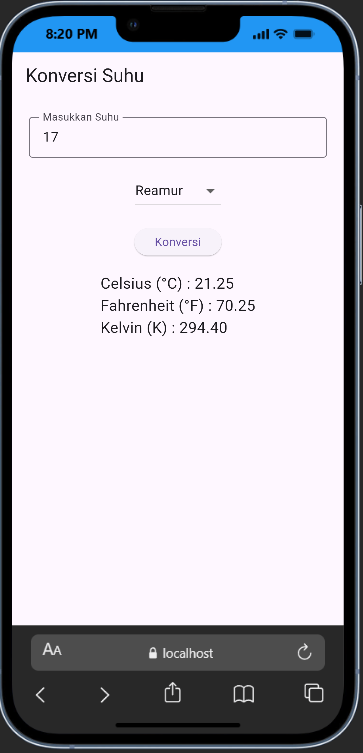
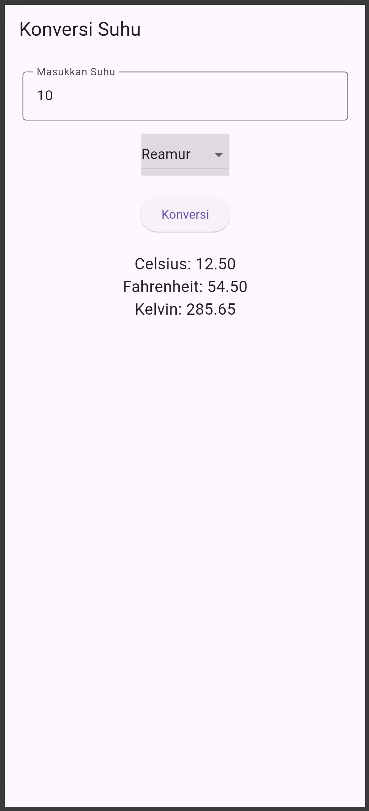
Konversi Bloc

diff --git a/lib/main.dart b/lib/main.dart
@@ -1,70 +1,22 @@
 import 'package:flutter/material.dart';
+import 'package:flutter_bloc/flutter_bloc.dart';
+import 'bloc/suhu/suhu_bloc.dart';
+import 'bloc/suhu/suhu_event.dart';
+import 'bloc/suhu/suhu_state.dart';
 
 void main() {
-  runApp(MyApp());
+  runApp(BlocProvider(create: (_) => SuhuBloc(), child: MyApp()));
 }
 
 class MyApp extends StatelessWidget {
   @override
   Widget build(BuildContext context) {
-    return MaterialApp(home: KonversiSuhu(), debugShowCheckedModeBanner: false);
+    return MaterialApp(debugShowCheckedModeBanner: false, home: KonversiSuhu());
   }
 }
 
-class KonversiSuhu extends StatefulWidget {
-  @override
-  _KonversiSuhuState createState() => _KonversiSuhuState();
-}
-
-class _KonversiSuhuState extends State<KonversiSuhu> {
-  TextEditingController suhuController = TextEditingController();
-
-  String satuanInput = "Celsius";
-  String hasil = "";
-
-  void konversi() {
-    double suhu = double.parse(suhuController.text);
-
-    double c, f, r, k;
-
-    if (satuanInput == "Celsius") {
-      c = suhu;
-      f = (c * 9 / 5) + 32;
-      r = c * 4 / 5;
-      k = c + 273.15;
-    } else if (satuanInput == "Fahrenheit") {
-      c = (suhu - 32) * 5 / 9;
-      f = suhu;
-      r = c * 4 / 5;
-      k = c + 273.15;
-    } else if (satuanInput == "Reamur") {
-      c = suhu * 5 / 4;
-      f = (c * 9 / 5) + 32;
-      r = suhu;
-      k = c + 273.15;
-    } else {
-      c = suhu - 273.15;
-      f = (c * 9 / 5) + 32;
-      r = c * 4 / 5;
-      k = suhu;
-    }
-
-    setState(() {
-      if (satuanInput == "Celsius") {
-        hasil =
-            "Fahrenheit (°F) : ${f.toStringAsFixed(2)}\nReamur (°R) : ${r.toStringAsFixed(2)}\nKelvin (K) : ${k.toStringAsFixed(2)}";
-      } else if (satuanInput == "Fahrenheit") {
-        hasil =
-            "Celsius (°C) : ${c.toStringAsFixed(2)}\nReamur (°R) : ${r.toStringAsFixed(2)}\nKelvin (K) : ${k.toStringAsFixed(2)}";
-      } else if (satuanInput == "Reamur") {
-        hasil =
-            "Celsius (°C) : ${c.toStringAsFixed(2)}\nFahrenheit (°F) : ${f.toStringAsFixed(2)}\nKelvin (K) : ${k.toStringAsFixed(2)}";
-      } else {
-        hasil =
-            "Celsius (°C) : ${c.toStringAsFixed(2)}\nFahrenheit (°F) : ${f.toStringAsFixed(2)}\nReamur (°R) : ${r.toStringAsFixed(2)}";
-      }
-    });
-  }
+class KonversiSuhu extends StatelessWidget {
+  final TextEditingController suhuController = TextEditingController();
 
   @override
   Widget build(BuildContext context) {
@@ -84,28 +36,42 @@ class _KonversiSuhuState extends State<KonversiSuhu> {
             ),
             SizedBox(height: 15),
 
-            DropdownButton<String>(
-              value: satuanInput,
-              items: ["Celsius", "Fahrenheit", "Reamur", "Kelvin"]
-                  .map(
-                    (String value) =>
-                        DropdownMenuItem(value: value, child: Text(value)),
-                  )
-                  .toList(),
-              onChanged: (value) {
-                setState(() {
-                  satuanInput = value!;
-                });
+            BlocBuilder<SuhuBloc, SuhuState>(
+              builder: (context, state) {
+                return DropdownButton<String>(
+                  value: state.satuan,
+                  items: ["Celsius", "Fahrenheit", "Reamur", "Kelvin"]
+                      .map((e) => DropdownMenuItem(value: e, child: Text(e)))
+                      .toList(),
+                  onChanged: (value) {
+                    context.read<SuhuBloc>().add(SetSatuanEvent(value!));
+                  },
+                );
               },
             ),
 
             SizedBox(height: 20),
 
-            ElevatedButton(onPressed: konversi, child: Text("Konversi")),
+            ElevatedButton(
+              onPressed: () {
+                context.read<SuhuBloc>().add(
+                  KonversiEvent(suhuController.text),
+                );
+              },
+              child: Text("Konversi"),
+            ),
 
             SizedBox(height: 20),
 
-            Text(hasil, style: TextStyle(fontSize: 18)),
+            BlocBuilder<SuhuBloc, SuhuState>(
+              builder: (context, state) {
+                return Text(
+                  state.hasil,
+                  style: TextStyle(fontSize: 18),
+                  textAlign: TextAlign.center,
+                );
+              },
+            ),
           ],
         ),
       ),

diff --git a/lib/bloc/suhu/suhu_bloc.dart b/lib/bloc/suhu/suhu_bloc.dart
@@ -1,0 +1,55 @@
+import 'package:flutter_bloc/flutter_bloc.dart';
+import 'suhu_event.dart';
+import 'suhu_state.dart';
+
+class SuhuBloc extends Bloc<SuhuEvent, SuhuState> {
+  SuhuBloc() : super(SuhuState()) {
+    on<SetSatuanEvent>((event, emit) {
+      emit(state.copyWith(satuan: event.satuan));
+    });
+
+    on<KonversiEvent>((event, emit) {
+      double? suhu = double.tryParse(event.input);
+
+      if (suhu == null) {
+        emit(state.copyWith(hasil: "Input tidak valid"));
+        return;
+      }
+
+      double c, f, r, k;
+      String hasil;
+
+      if (state.satuan == "Celsius") {
+        c = suhu;
+        f = (c * 9 / 5) + 32;
+        r = c * 4 / 5;
+        k = c + 273.15;
+        hasil =
+            "Fahrenheit: ${f.toStringAsFixed(2)}\nReamur: ${r.toStringAsFixed(2)}\nKelvin: ${k.toStringAsFixed(2)}";
+      } else if (state.satuan == "Fahrenheit") {
+        c = (suhu - 32) * 5 / 9;
+        f = suhu;
+        r = c * 4 / 5;
+        k = c + 273.15;
+        hasil =
+            "Celsius: ${c.toStringAsFixed(2)}\nReamur: ${r.toStringAsFixed(2)}\nKelvin: ${k.toStringAsFixed(2)}";
+      } else if (state.satuan == "Reamur") {
+        c = suhu * 5 / 4;
+        f = (c * 9 / 5) + 32;
+        r = suhu;
+        k = c + 273.15;
+        hasil =
+            "Celsius: ${c.toStringAsFixed(2)}\nFahrenheit: ${f.toStringAsFixed(2)}\nKelvin: ${k.toStringAsFixed(2)}";
+      } else {
+        c = suhu - 273.15;
+        f = (c * 9 / 5) + 32;
+        r = c * 4 / 5;
+        k = suhu;
+        hasil =
+            "Celsius: ${c.toStringAsFixed(2)}\nFahrenheit: ${f.toStringAsFixed(2)}\nReamur: ${r.toStringAsFixed(2)}";
+      }
+
+      emit(state.copyWith(hasil: hasil));
+    });
+  }
+}

diff --git a/lib/bloc/suhu/suhu_state.dart b/lib/bloc/suhu/suhu_state.dart
@@ -1,0 +1,10 @@
+class SuhuState {
+  final String satuan;
+  final String hasil;
+
+  SuhuState({this.satuan = "Celsius", this.hasil = ""});
+
+  SuhuState copyWith({String? satuan, String? hasil}) {
+    return SuhuState(satuan: satuan ?? this.satuan, hasil: hasil ?? this.hasil);
+  }
+}

diff --git a/lib/bloc/suhu/suhu_event.dart b/lib/bloc/suhu/suhu_event.dart
@@ -1,0 +1,11 @@
+abstract class SuhuEvent {}
+
+class SetSatuanEvent extends SuhuEvent {
+  final String satuan;
+  SetSatuanEvent(this.satuan);
+}
+
+class KonversiEvent extends SuhuEvent {
+  final String input;
+  KonversiEvent(this.input);
+}

diff --git a/README.md b/README.md
@@ -3,6 +3,6 @@
 <p align="center">
   <img src="celcius.png" width="200">
   <img src="fahrenheit.png" width="200">
-  <img src="kelvin.png" width="200">
+  <img src="reamur.png" width="200">
   <img src="kelvin.png" width="200">
 </p>
